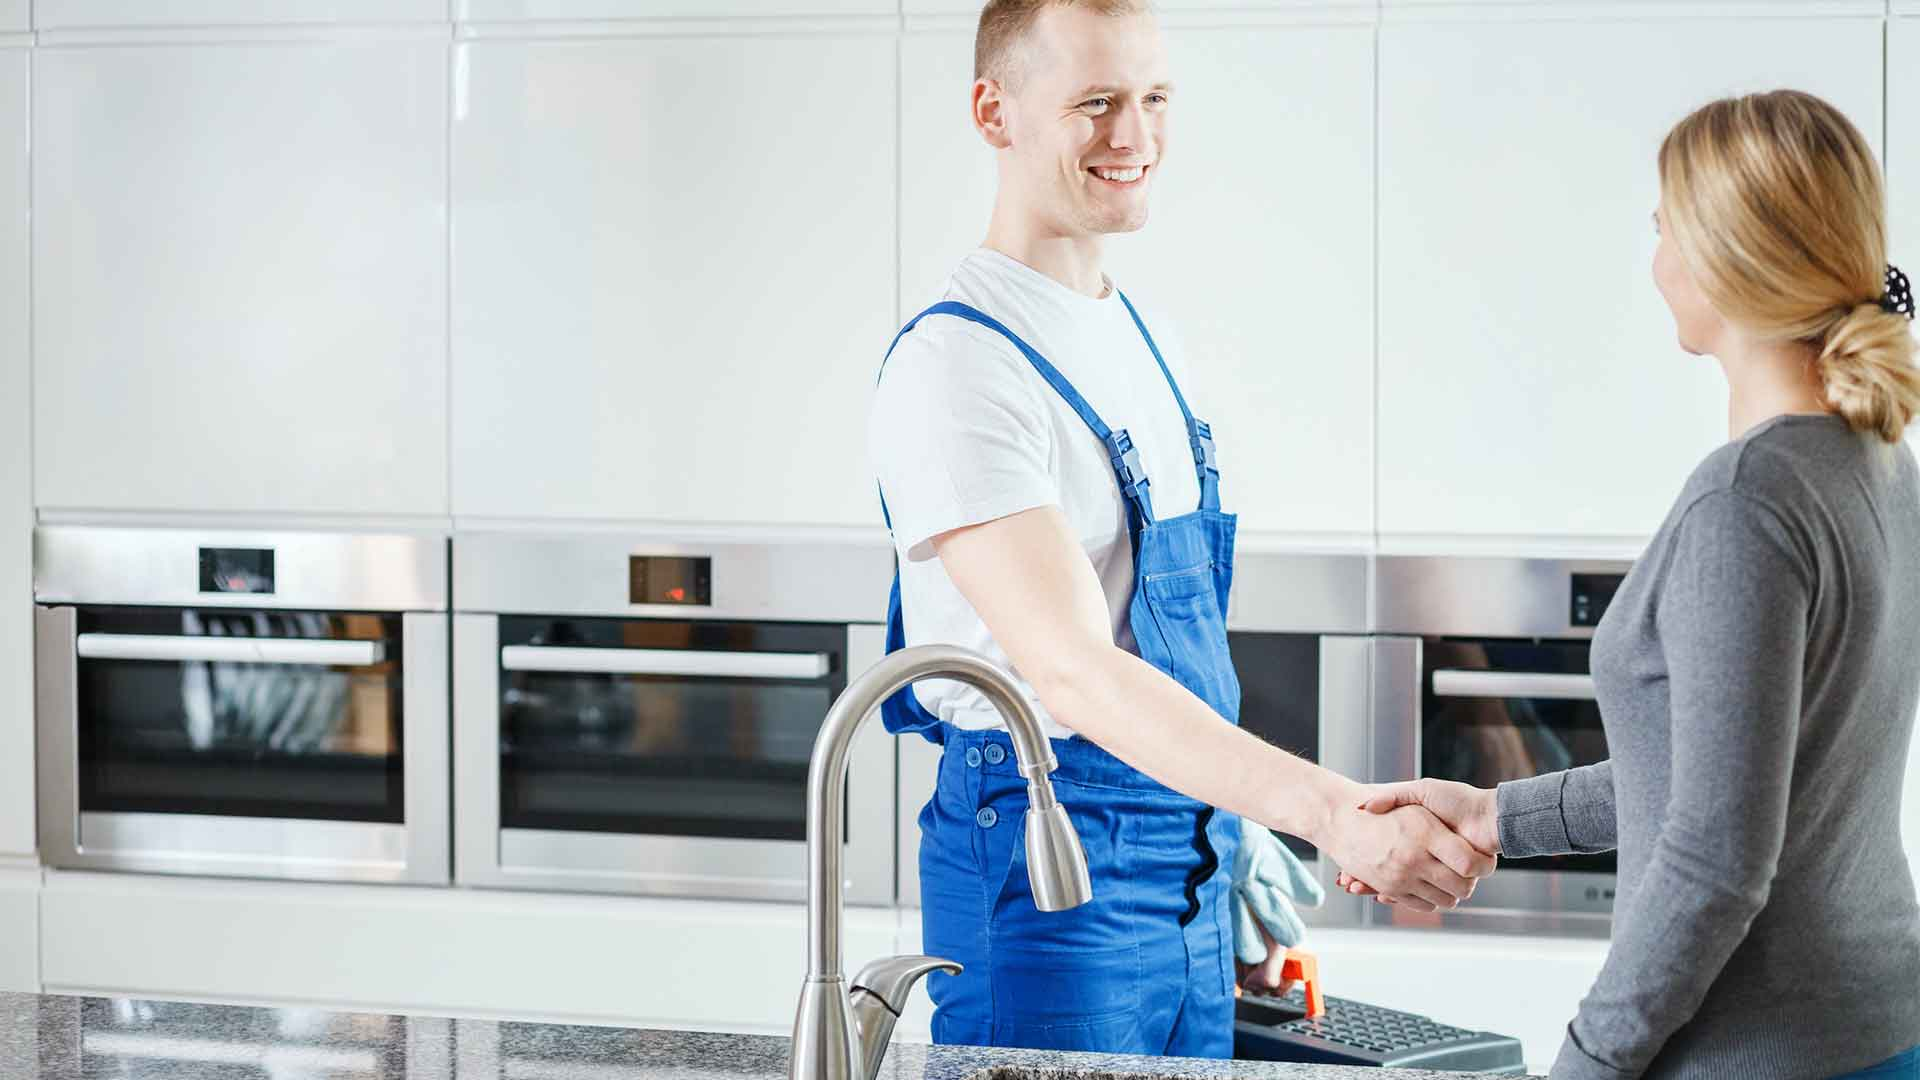
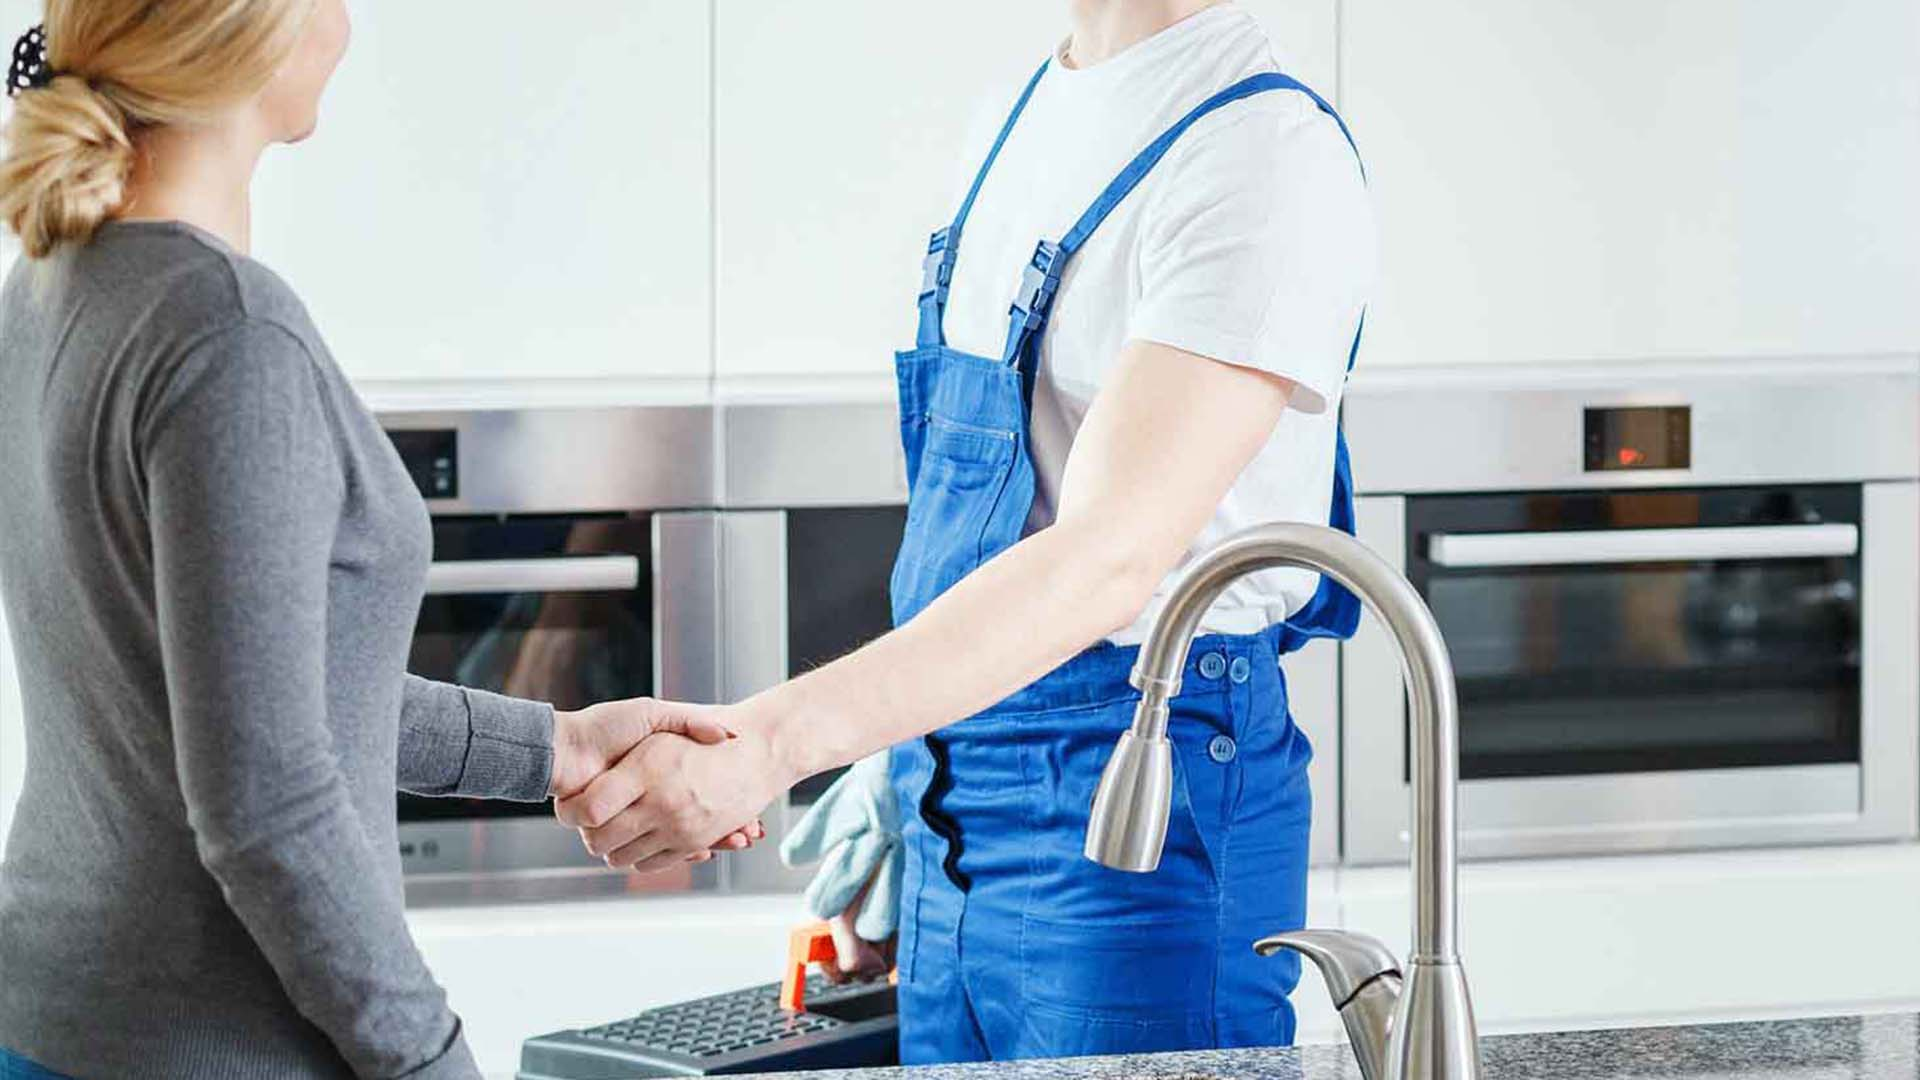
Add files via upload

diff --git a/index.html b/index.html
@@ -108,9 +108,9 @@
         <div class="carousel-overlay">
           <div class="container">
             <div class="carousel-content">
-              <h5>Services de Plomberie & Réparation</h5>
-              <h1>Services de Plomberie<br>Résidentielle Efficaces</h1>
-              <p>Des artisans certifiés, réactifs et transparents sur les prix pour tous vos besoins en plomberie.</p>
+              <h5>Plomberie & Chauffage sans stress.</h5>
+              <h1>Dépannage rapide, installations fiables et conseils clairs.<br>Sans mauvaises surprises</h1>
+              <p>Un artisan certifié, réactif et transparent sur les prix.</p>
               <div class="carousel-btns">
                 <a href="services.html" class="btn-primary">En savoir plus</a>
                 <a href="contact.html" class="btn-secondary">Devis gratuit</a>
@@ -124,9 +124,9 @@
         <div class="carousel-overlay">
           <div class="container">
             <div class="carousel-content">
-              <h5>Services de Plomberie & Réparation</h5>
-              <h1>Services de Plomberie<br>Commerciale Efficaces</h1>
-              <p>Des artisans certifiés, réactifs et transparents sur les prix pour tous vos besoins en plomberie.</p>
+              <h5>Un partenaire fiable pour votre activité</h5>
+              <h1>Une panne ? J’interviens vite, avec des solutions fiables dans le temps.</h1>
+              <p>Interventions rapides et solutions pérennes pour ne jamais ralentir votre business..</p>
               <div class="carousel-btns">
                 <a href="services.html" class="btn-primary">En savoir plus</a>
                 <a href="contact.html" class="btn-secondary">Devis gratuit</a>
@@ -140,9 +140,9 @@
         <div class="carousel-overlay">
           <div class="container">
             <div class="carousel-content">
-              <h5>Services de Plomberie & Réparation</h5>
-              <h1>Services de Plomberie<br>Commerciale Efficaces</h1>
-              <p>Des artisans certifiés, réactifs et transparents sur les prix pour tous vos besoins en plomberie.</p>
+              <h5>Réparer, améliorer, optimiser votre installation</h5>
+              <h1>Fuites, pannes, remplacement ou modernisation, je trouve la solution adaptée.</h1>
+              <p>Je ne fais pas que réparer, j'améliore.</p>
               <div class="carousel-btns">
                 <a href="services.html" class="btn-primary">En savoir plus</a>
                 <a href="contact.html" class="btn-secondary">Devis gratuit</a>
@@ -179,8 +179,8 @@ Chaque intervention est réalisée avec des solutions sur mesure, parfaitement a
           </div>
         </div>
         <div class="about-imgs fade-in">
-          <img class="about-img-main" src="img/about-1.jpg" alt="Plombier AquaPro">
-          <img class="about-img-inset" src="img/about-2.jpg" alt="Équipe AquaPro">
+          <img class="about-img-main" src="img/about-3.jpg" alt="Plombier AquaPro">
+          <img class="about-img-inset" src="img/about-4.jpg" alt="Équipe AquaPro">
         </div>
       </div>
     </div>
@@ -206,7 +206,7 @@ Chaque intervention est réalisée avec des solutions sur mesure, parfaitement a
 
       <div class="team-card fade-in zone-card">
         <div class="team-img-wrap">
-          <img src="img/service-1.jpg" alt="Seine-Saint-Denis plomberie">
+          <img src="img/service-5.jpg" alt="Seine-Saint-Denis plomberie">
         </div>
         <div class="team-info-bar">
           <div class="team-name">
@@ -218,7 +218,7 @@ Chaque intervention est réalisée avec des solutions sur mesure, parfaitement a
 
       <div class="team-card fade-in zone-card">
         <div class="team-img-wrap">
-          <img src="img/service-2.jpg" alt="Val-de-Marne plomberie">
+          <img src="img/service-6.jpg" alt="Val-de-Marne plomberie">
         </div>
         <div class="team-info-bar">
           <div class="team-name">
@@ -230,7 +230,7 @@ Chaque intervention est réalisée avec des solutions sur mesure, parfaitement a
 
       <div class="team-card fade-in zone-card">
         <div class="team-img-wrap">
-          <img src="img/service-3.jpg" alt="Paris plomberie dépannage">
+          <img src="img/service-7.jpg" alt="Paris plomberie dépannage">
         </div>
         <div class="team-info-bar">
           <div class="team-name">
@@ -242,7 +242,7 @@ Chaque intervention est réalisée avec des solutions sur mesure, parfaitement a
 
       <div class="team-card fade-in zone-card">
         <div class="team-img-wrap">
-          <img src="img/service-4.png" alt="Île-de-France plomberie">
+          <img src="img/service-8.jpg" alt="Île-de-France plomberie">
         </div>
         <div class="team-info-bar">
           <div class="team-name">
@@ -544,7 +544,7 @@ Chaque intervention est réalisée avec des solutions sur mesure, parfaitement a
             <div class="testi-item">
               <div class="testi-text"><p>"Intervention en moins d'une heure un dimanche soir pour une fuite catastrophique. Prix annoncé respecté à l'euro près. Je recommande vivement !"</p></div>
               <div class="testi-bottom">
-                <img src="img/testimonial-1.jpg" alt="Marie-Louise D.">
+                <img src="img/testimonial-1.webp" alt="Marie-Louise D.">
                 <div class="testi-stars">★★★★★</div>
                 <h5>Marie-Louise D.</h5>
                 <p class="testi-job">Paris 11e</p>
@@ -556,7 +556,7 @@ Chaque intervention est réalisée avec des solutions sur mesure, parfaitement a
             <div class="testi-item">
               <div class="testi-text"><p>"Débouchage complet de ma cuisine et salle de bain en 45 minutes. Propre, efficace, professionnel. Je recommande sans hésiter à tout mon entourage."</p></div>
               <div class="testi-bottom">
-                <img src="img/testimonial-2.jpg" alt="Jean-Karl M.">
+                <img src="img/testimonial-2.webp" alt="Jean-Karl M.">
                 <div class="testi-stars">★★★★★</div>
                 <h5>Jean-Karl M.</h5>
                 <p class="testi-job">Vincennes</p>
@@ -568,9 +568,9 @@ Chaque intervention est réalisée avec des solutions sur mesure, parfaitement a
             <div class="testi-item">
               <div class="testi-text"><p>"Remplacement du chauffe-eau en un seul passage, sans dégâts. Excellent rapport qualité-prix et équipe très sympathique et professionnelle."</p></div>
               <div class="testi-bottom">
-                <img src="img/testimonial-3.jpg" alt="Sophie C.">
+                <img src="img/testimonial-3.webp" alt="Stéphane C.">
                 <div class="testi-stars">★★★★★</div>
-                <h5>Sophie C.</h5>
+                <h5>Stéphane C.</h5>
                 <p class="testi-job">Boulogne-Billancourt</p>
               </div>
             </div>
@@ -580,9 +580,9 @@ Chaque intervention est réalisée avec des solutions sur mesure, parfaitement a
             <div class="testi-item">
               <div class="testi-text"><p>"Très rapide et efficace. Technicien ponctuel, travail soigné, prix honnête. Je fais appel à Aquapro pour tous mes besoins en plomberie."</p></div>
               <div class="testi-bottom">
-                <img src="img/testimonial-4.jpg" alt="Pierre B.">
+                <img src="img/testimonial-4.webp" alt="Sandra B.">
                 <div class="testi-stars">★★★★★</div>
-                <h5>Pierre B.</h5>
+                <h5>Sandra B.</h5>
                 <p class="testi-job">Neuilly-sur-Seine</p>
               </div>
             </div>
@@ -592,10 +592,10 @@ Chaque intervention est réalisée avec des solutions sur mesure, parfaitement a
             <div class="testi-item">
               <div class="testi-text"><p>"Une urgence un samedi matin, réglée en deux heures chrono. Équipe sérieuse, matériel propre, aucune mauvaise surprise sur la facture."</p></div>
               <div class="testi-bottom">
-                <img src="img/testimonial-4.jpg" alt="François M.">
+                <img src="img/testimonial-5.webp" alt="Steven M.">
                 <div class="testi-stars">★★★★★</div>
-                <h5>François M.</h5>
-                <p class="testi-job">Neuilly Plaisance</p>
+                <h5>Steven M.</h5>
+                <p class="testi-job">Nogent sur Marne</p>
               </div>
             </div>
           </div>
@@ -604,9 +604,9 @@ Chaque intervention est réalisée avec des solutions sur mesure, parfaitement a
             <div class="testi-item">
               <div class="testi-text"><p>"Devis clair, intervention rapide, résultat impeccable. Enfin un plombier sur lequel on peut compter. Je les recommande sans réserve à mes voisins."</p></div>
               <div class="testi-bottom">
-                <img src="img/testimonial-3.jpg" alt="Isabelle T.">
+                <img src="img/testimonial-6.webp" alt="Manon T.">
                 <div class="testi-stars">★★★★★</div>
-                <h5>Isabelle T.</h5>
+                <h5>Manon T.</h5>
                 <p class="testi-job">Rosny-sous-Bois</p>
               </div>
             </div>

diff --git a/services.html b/services.html
@@ -223,7 +223,7 @@
     /* ── BOOKING FORM (redesigned) ── */
     .booking-section {
       background: linear-gradient(rgba(10,20,50,.82), rgba(10,20,50,.82)),
-        url('https://images.unsplash.com/photo-1585771724684-38269d6639fd?w=1400&auto=format&fit=crop&q=80') center/cover no-repeat;
+        url('img/bg2.jpg') center/cover no-repeat;
       padding: 80px 0;
     }
     .booking-inner {
@@ -311,7 +311,7 @@
 </nav>
 
 <!-- HERO -->
-<div class="page-hero" style="background-image: linear-gradient(rgba(10,20,55,.78), rgba(10,20,55,.78)), url('https://images.unsplash.com/photo-1504328345606-18bbc8c9d7d1?w=1400&auto=format&fit=crop&q=80'); background-size:cover; background-position:center;">
+<div class="page-hero" style="background-image: linear-gradient(rgba(10,20,55,.78), rgba(10,20,55,.78)), url('img/bg.jpg'); background-size:cover; background-position:center;">
   <div class="container">
     <h1>Nos Services</h1>
     <nav class="breadcrumb">
@@ -366,7 +366,7 @@
   <!-- Réparation de fuites -->
   <div id="fuites" class="svc-row">
     <div class="svc-row-img">
-      <img src="https://images.unsplash.com/photo-1558618666-fcd25c85cd64?w=800&auto=format&fit=crop&q=80" alt="Réparation de fuites">
+      <img src="img/serv-1.jpg" alt="Réparation de fuites">
       <div class="svc-row-img-overlay"></div>
       <span class="svc-row-badge">Service n°1</span>
     </div>
@@ -387,7 +387,7 @@
   <!-- Débouchage -->
   <div id="debouchage" class="svc-row">
     <div class="svc-row-img">
-      <img src="https://images.unsplash.com/photo-1584622650111-993a426fbf0a?w=800&auto=format&fit=crop&q=80" alt="Débouchage canalisation">
+      <img src="img/serv-2.jpg" alt="Débouchage canalisation">
       <div class="svc-row-img-overlay"></div>
       <span class="svc-row-badge">Haute pression</span>
     </div>
@@ -408,7 +408,7 @@
   <!-- Urgences -->
   <div id="urgence" class="svc-row">
     <div class="svc-row-img">
-      <img src="https://images.unsplash.com/photo-1504309092620-4d0ec726efa4?w=800&auto=format&fit=crop&q=80" alt="Urgence plomberie">
+      <img src="img/serv-3.jpg" alt="Urgence plomberie">
       <div class="svc-row-img-overlay"></div>
       <span class="svc-row-badge">24h / 7j</span>
     </div>
@@ -429,7 +429,7 @@
   <!-- Chauffe-eau -->
   <div id="chauffe-eau" class="svc-row">
     <div class="svc-row-img">
-      <img src="https://images.unsplash.com/photo-1558618047-3c8c76ca7d13?w=800&auto=format&fit=crop&q=80" alt="Chauffe-eau">
+      <img src="img/serv-4.jpg" alt="Chauffe-eau">
       <div class="svc-row-img-overlay"></div>
       <span class="svc-row-badge">Toutes énergies</span>
     </div>
@@ -450,7 +450,7 @@
   <!-- Chauffage -->
   <div id="chauffage" class="svc-row">
     <div class="svc-row-img">
-      <img src="https://images.unsplash.com/photo-1631857367154-c3e4b0c39a5c?w=800&auto=format&fit=crop&q=80" alt="Chauffage">
+      <img src="img/serv-5.jpg" alt="Chauffage">
       <div class="svc-row-img-overlay"></div>
       <span class="svc-row-badge">Dépannage rapide</span>
     </div>
@@ -471,7 +471,7 @@
   <!-- Plomberie neuve & rénovation -->
   <div id="renovation" class="svc-row">
     <div class="svc-row-img">
-      <img src="https://images.unsplash.com/photo-1556909114-f6e7ad7d3136?w=800&auto=format&fit=crop&q=80" alt="Rénovation plomberie">
+      <img src="img/serv-6.jpg" alt="Rénovation plomberie">
       <div class="svc-row-img-overlay"></div>
       <span class="svc-row-badge">Sur mesure</span>
     </div>

diff --git a/about.html b/about.html
@@ -457,7 +457,7 @@
       <div class="about-pro-grid">
 
         <div class="about-img-wrap fade-up">
-          <img src="https://images.unsplash.com/photo-1621905251189-08b45d6a269e?w=800&q=80" alt="Aquapro Plombier au travail">
+          <img src="img/pomb1.jpg" alt="Aquapro Plombier au travail">
           <div class="about-img-overlay"></div>
           <div class="about-img-cert">
             <i class="fa fa-shield-alt"></i> Certifié RGE · Assuré décennal
@@ -611,42 +611,42 @@
       <div style="display:grid;grid-template-columns:repeat(3,1fr);gap:16px;">
 
         <div class="fade-up" style="border-radius:6px;overflow:hidden;aspect-ratio:4/3;position:relative;">
-          <img src="https://images.unsplash.com/photo-1621905252507-b35492cc74b4?w=600&q=80" alt="Plombier au travail" style="width:100%;height:100%;object-fit:cover;display:block;">
+          <img src="img/pomb2.jpg" alt="Plombier au travail" style="width:100%;height:100%;object-fit:cover;display:block;">
           <div style="position:absolute;bottom:0;left:0;right:0;background:linear-gradient(to top,rgba(0,0,0,.65),transparent);padding:14px 16px;">
             <span style="font-family:'Outfit',sans-serif;font-size:13px;font-weight:600;color:#fff;"><i class="fa fa-wrench" style="margin-right:6px;font-size:11px;"></i>Plomberie générale</span>
           </div>
         </div>
 
         <div class="fade-up" style="border-radius:6px;overflow:hidden;aspect-ratio:4/3;position:relative;transition-delay:.1s;">
-          <img src="https://images.unsplash.com/photo-1504328345606-18bbc8c9d7d1?w=600&q=80" alt="Réseaux de tuyaux" style="width:100%;height:100%;object-fit:cover;display:block;">
+          <img src="img/pomb3.jpg" alt="Réseaux de tuyaux" style="width:100%;height:100%;object-fit:cover;display:block;">
           <div style="position:absolute;bottom:0;left:0;right:0;background:linear-gradient(to top,rgba(0,0,0,.65),transparent);padding:14px 16px;">
             <span style="font-family:'Outfit',sans-serif;font-size:13px;font-weight:600;color:#fff;"><i class="fa fa-water" style="margin-right:6px;font-size:11px;"></i>Réseaux & canalisations</span>
           </div>
         </div>
 
         <div class="fade-up" style="border-radius:6px;overflow:hidden;aspect-ratio:4/3;position:relative;transition-delay:.2s;">
-          <img src="https://images.unsplash.com/photo-1513694203232-719a280e022f?w=600&q=80" alt="Chaudière chauffage" style="width:100%;height:100%;object-fit:cover;display:block;">
+          <img src="img/pomb4.jpg" alt="Chaudière chauffage" style="width:100%;height:100%;object-fit:cover;display:block;">
           <div style="position:absolute;bottom:0;left:0;right:0;background:linear-gradient(to top,rgba(0,0,0,.65),transparent);padding:14px 16px;">
             <span style="font-family:'Outfit',sans-serif;font-size:13px;font-weight:600;color:#fff;"><i class="fa fa-fire" style="margin-right:6px;font-size:11px;"></i>Chauffage & chaudière</span>
           </div>
         </div>
 
         <div class="fade-up" style="border-radius:6px;overflow:hidden;aspect-ratio:4/3;position:relative;transition-delay:.3s;">
-          <img src="https://images.unsplash.com/photo-1585771724684-38269d6639fd?w=600&q=80" alt="Réparation fuite" style="width:100%;height:100%;object-fit:cover;display:block;">
+          <img src="img/pomb5.jpg" alt="Réparation fuite" style="width:100%;height:100%;object-fit:cover;display:block;">
           <div style="position:absolute;bottom:0;left:0;right:0;background:linear-gradient(to top,rgba(0,0,0,.65),transparent);padding:14px 16px;">
             <span style="font-family:'Outfit',sans-serif;font-size:13px;font-weight:600;color:#fff;"><i class="fa fa-tint" style="margin-right:6px;font-size:11px;"></i>Réparation de fuite</span>
           </div>
         </div>
 
         <div class="fade-up" style="border-radius:6px;overflow:hidden;aspect-ratio:4/3;position:relative;transition-delay:.4s;">
-          <img src="https://images.unsplash.com/photo-1543674892-7d64d45df18b?w=600&q=80" alt="Débouchage" style="width:100%;height:100%;object-fit:cover;display:block;">
+          <img src="img/pomb6.jpg" alt="Débouchage" style="width:100%;height:100%;object-fit:cover;display:block;">
           <div style="position:absolute;bottom:0;left:0;right:0;background:linear-gradient(to top,rgba(0,0,0,.65),transparent);padding:14px 16px;">
             <span style="font-family:'Outfit',sans-serif;font-size:13px;font-weight:600;color:#fff;"><i class="fa fa-undo" style="margin-right:6px;font-size:11px;"></i>Débouchage canalisation</span>
           </div>
         </div>
 
         <div class="fade-up" style="border-radius:6px;overflow:hidden;aspect-ratio:4/3;position:relative;transition-delay:.5s;">
-          <img src="https://images.unsplash.com/photo-1552321554-5fefe8c9ef14?w=600&q=80" alt="Rénovation salle de bain" style="width:100%;height:100%;object-fit:cover;display:block;">
+          <img src="img/pomb7.jpg" alt="Aménagement des pièces d’eau" style="width:100%;height:100%;object-fit:cover;display:block;">
           <div style="position:absolute;bottom:0;left:0;right:0;background:linear-gradient(to top,rgba(0,0,0,.65),transparent);padding:14px 16px;">
             <span style="font-family:'Outfit',sans-serif;font-size:13px;font-weight:600;color:#fff;"><i class="fa fa-bath" style="margin-right:6px;font-size:11px;"></i>Rénovation salle de bain</span>
           </div>

diff --git a/style.css b/style.css
@@ -304,7 +304,7 @@ h1,h2,h3,h4,h5,h6 { font-family: 'Outfit', sans-serif; line-height: 1.2; }
   align-items: center;
 }
 .carousel-content {
-  max-width: 680px;
+  max-width: 900px;
   padding: 0 0 0 20px;
   border-left: 14px solid #fff;
 }
@@ -326,7 +326,7 @@ h1,h2,h3,h4,h5,h6 { font-family: 'Outfit', sans-serif; line-height: 1.2; }
   color: rgba(255,255,255,.85);
   font-size: 1rem;
   margin-bottom: 28px;
-  max-width: 520px;
+  max-width: 100%;
 }
 .carousel-btns { display: flex; gap: 14px; flex-wrap: wrap; }
 .carousel-btn {
@@ -494,7 +494,7 @@ h1,h2,h3,h4,h5,h6 { font-family: 'Outfit', sans-serif; line-height: 1.2; }
   width: 100%;
   height: 220px;
   background: linear-gradient(135deg, rgba(10,20,55,.82) 0%, rgba(47,102,198,.70) 60%, rgba(242,140,0,.45) 100%),
-              url('https://images.unsplash.com/photo-1558618666-fcd25c85cd64?w=1400&auto=format&fit=crop&q=80') center/cover no-repeat;
+              url('img/bg2.jpg') center/cover no-repeat;
   display: flex;
   align-items: center;
   justify-content: center;

diff --git a/zone-intervention.html b/zone-intervention.html
@@ -221,7 +221,7 @@
     /* ── CTA BANNER ── */
     .zone-cta-banner {
       background: linear-gradient(rgba(10,20,50,.85), rgba(10,20,50,.85)),
-        url('https://images.unsplash.com/photo-1504309092620-4d0ec726efa4?w=1400&auto=format&fit=crop&q=80') center/cover no-repeat;
+        url('img/bg2.jpg') center/cover no-repeat;
       padding: 80px 0;
       text-align: center;
     }
@@ -296,7 +296,7 @@
 </nav>
 
 <!-- HERO -->
-<div class="page-hero" style="background-image: linear-gradient(rgba(10,20,55,.78), rgba(10,20,55,.78)), url('https://images.unsplash.com/photo-1477959858617-67f85cf4f1df?w=1400&auto=format&fit=crop&q=80'); background-size:cover; background-position:center;">
+<div class="page-hero" style="background-image: linear-gradient(rgba(10,20,55,.78), rgba(10,20,55,.78)), url('img/bg.jpg'); background-size:cover; background-position:center;">
   <div class="container">
     <h1>Zone d'intervention</h1>
     <nav class="breadcrumb">
@@ -310,7 +310,7 @@
 <!-- INTRO SPLIT -->
 <div class="zone-split">
   <div class="zone-split-img">
-    <img src="https://images.unsplash.com/photo-1506905925346-21bda4d32df4?w=800&auto=format&fit=crop&q=80" alt="Île-de-France vue aérienne">
+    <img src="img/zone-1.jpg" alt="Île-de-France vue aérienne">
     <div class="zone-split-img-overlay"></div>
     <div class="split-badge"><i class="fa fa-map-marker-alt"></i> Basés à Neuilly Plaisance, 93360</div>
   </div>

diff --git a/contact.html b/contact.html
@@ -238,7 +238,7 @@
 </nav>
 
 <!-- HERO -->
-<div class="page-hero" style="background-image: linear-gradient(rgba(10,20,55,.78), rgba(10,20,55,.78)), url('https://images.unsplash.com/photo-1573497620053-ea5300f94f21?w=1400&auto=format&fit=crop&q=80'); background-size:cover; background-position:center top;">
+<div class="page-hero" style="background-image: linear-gradient(rgba(10,20,55,.78), rgba(10,20,55,.78)), url('img/bg2.jpg'); background-size:cover; background-position:center top;">
   <div class="container">
     <h1>Contactez-nous</h1>
     <nav class="breadcrumb">

diff --git a/main.js b/main.js
@@ -33,7 +33,7 @@
   const nextBtn = document.getElementById('carousel-next');
   if (prevBtn) prevBtn.addEventListener('click', () => showSlide(current - 1));
   if (nextBtn) nextBtn.addEventListener('click', () => showSlide(current + 1));
-  if (slides.length) setInterval(() => showSlide(current + 1), 5000);
+  if (slides.length) setInterval(() => showSlide(current + 1), 7000);
 
   // ========== NAVBAR STICKY SHADOW ==========
   const navbar = document.getElementById('navbar');